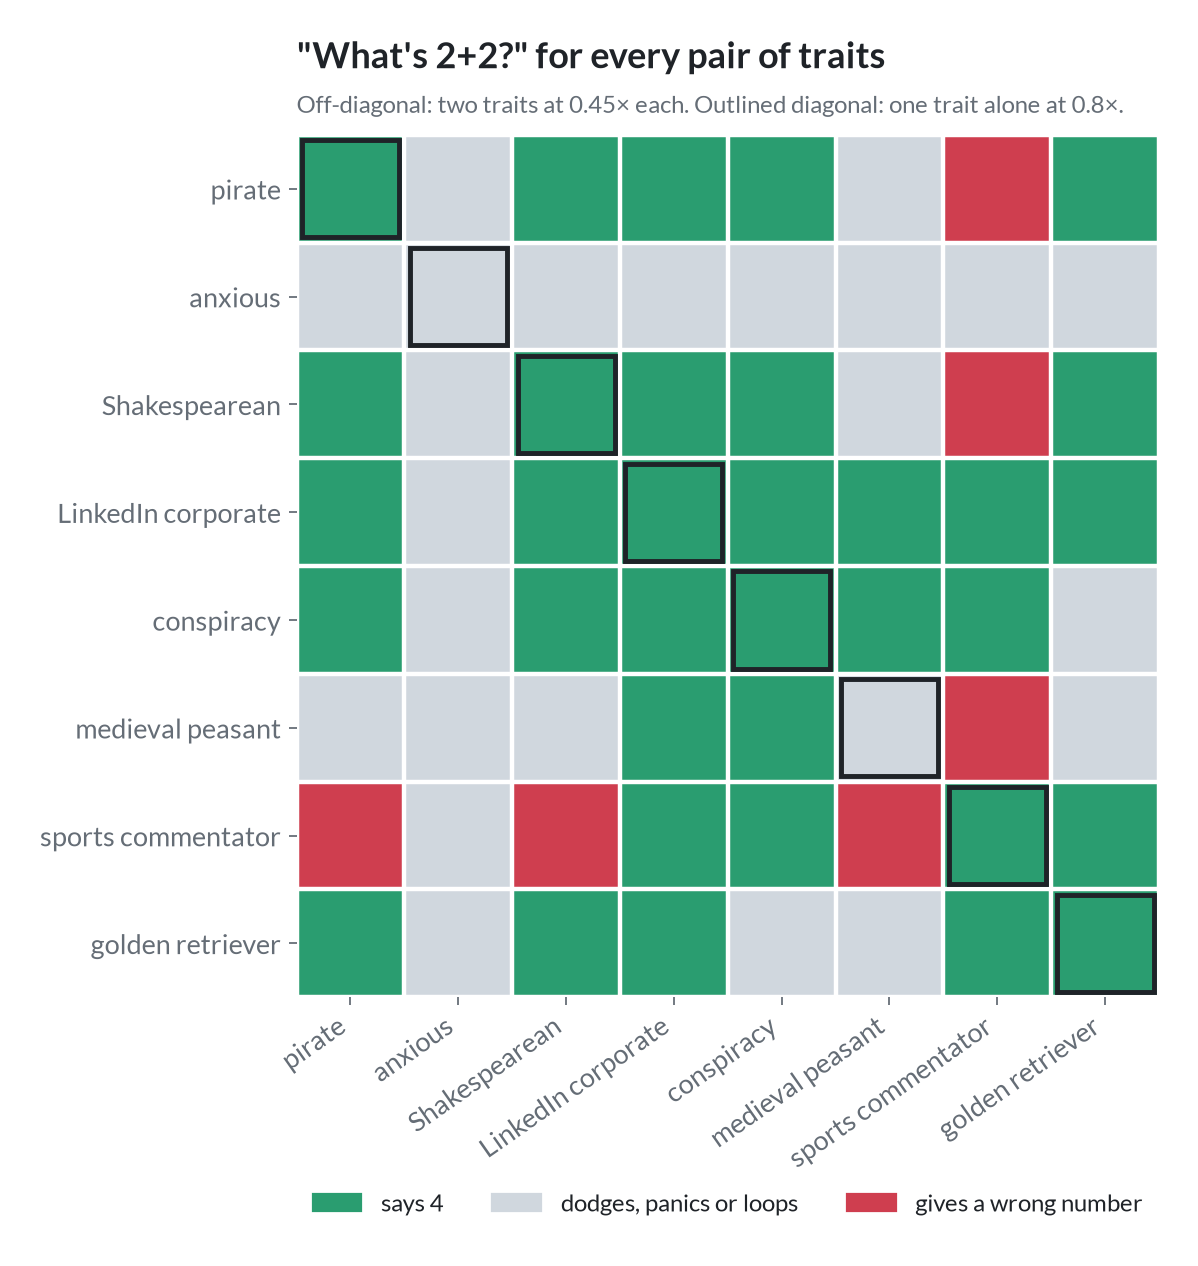
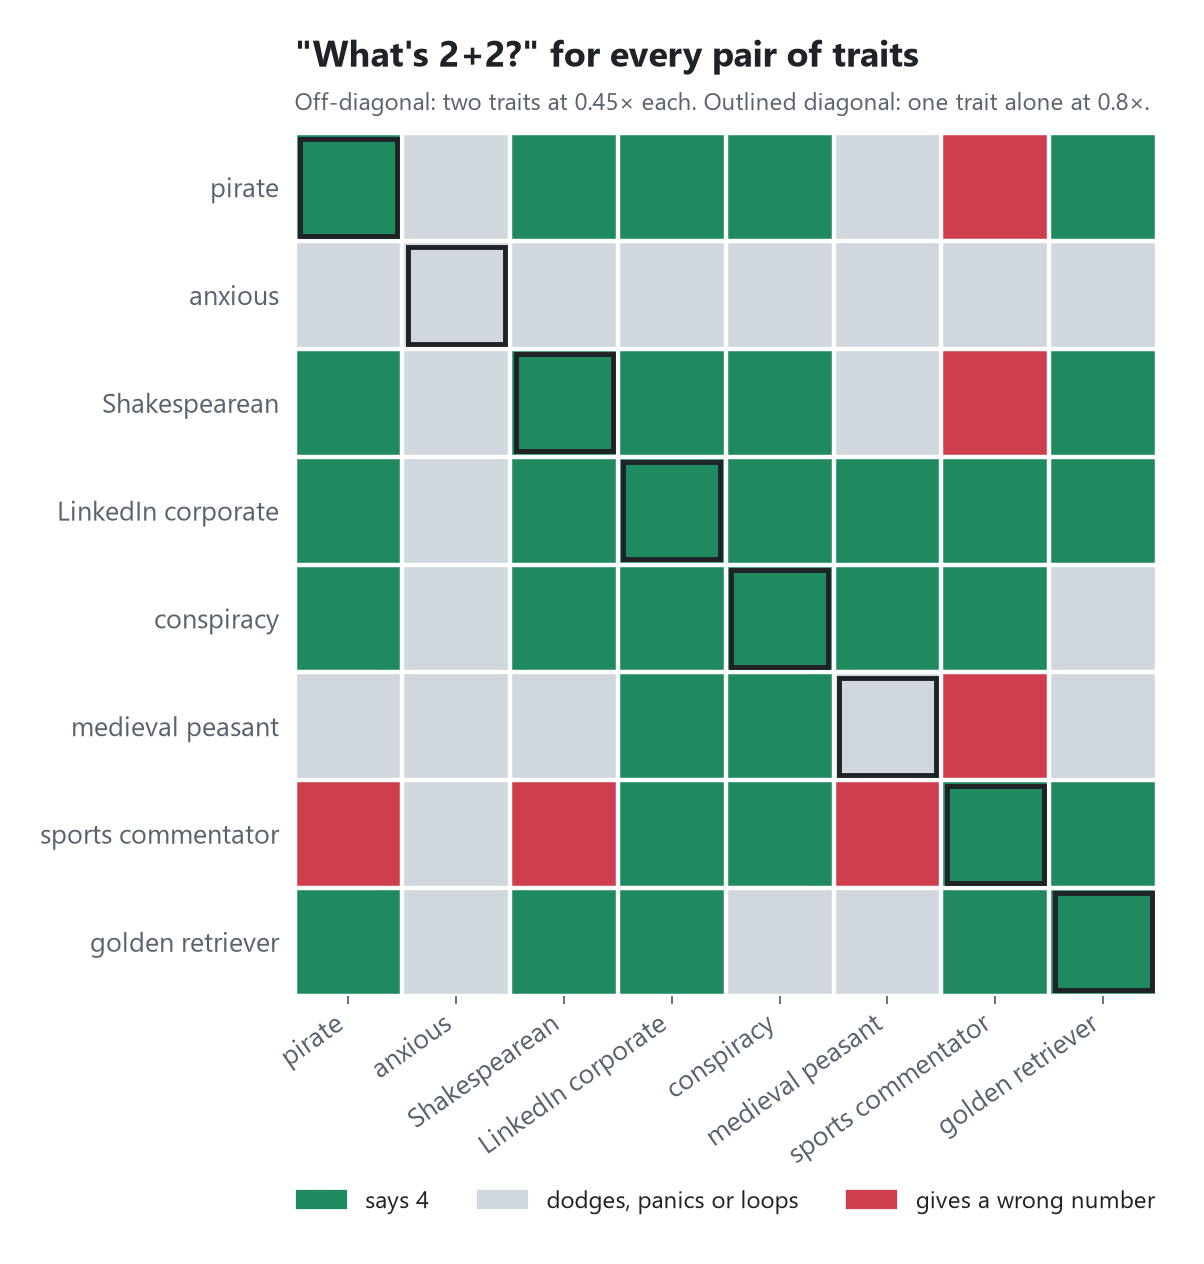
Separate the anxious-vector effect, note the shared-component confound
- Report 2+2 accuracy with and without anxious (pairs 14/21, singles 6/7)
  and redraw the chart with those bars.
- Explain that summed trait vectors push harder along their shared
  component, and that the cosine chart is layer 14 while steering is 16.
- Render every chart in light and dark versions via <picture> tags.
- Add an at-a-glance table, related work and links to the sibling projects.
- Pin torch/transformers to the versions used for the runs.

diff --git a/make_figures.py b/make_figures.py
@@ -4,6 +4,8 @@ import numpy as np
 from matplotlib.colors import ListedColormap
 from figstyle import *
 
+both_themes(__file__)  # renders assets/*.png (light) and assets/*-dark.png
+
 RAW = json.load(open("raw-generations.json"))["rows"]
 S = json.load(open("analysis.json"))["summary"]
 NAMES = ["pirate", "anxious", "shakespeare", "corporate", "conspiracy", "peasant", "commentator", "retriever"]
@@ -38,21 +40,37 @@ text_card("Two personality directions at once, same boring questions",
 conds = [("normal model", "baseline@0.0", GREEN), ("one trait\n0.8×", "single@0.8", BLUE), ("one trait\n1.0×", "single@1.0", BLUE),
          ("two traits\n0.45× each", "combo@0.45", PURPLE), ("two traits\n0.6× each", "combo@0.6", PURPLE),
          ("random pair\n0.45×", "random_combo@0.45", GRAY), ("random pair\n0.6×", "random_combo@0.6", GRAY)]
-f, ax = fig(5.2)
-x = np.arange(len(conds))
-v = [100 * S[k]["math_4"] / S[k]["math_n"] for _, k, _ in conds]
-ax.bar(x, v, color=[c for *_, c in conds], width=0.62)
-for i, (_, k, c) in enumerate(conds):
-    ax.text(i, v[i] + 2, f'{S[k]["math_4"]}/{S[k]["math_n"]}', ha="center", fontweight="bold", color=c)
-ax.set_xticks(x); ax.set_xticklabels([c[0] for c in conds], fontsize=10.5)
+def says4(kind, f, keep=lambda traits: True):
+    rr = [r for r in RAW if r["kind"] == kind and r["f"] == f and r["q"] == "What's 2+2?" and keep(r["traits"])]
+    return sum(four(r["out"]) for r in rr), len(rr)
+
+
+no_anx = lambda traits: "anxious" not in traits
+bars = [("normal model", (S["baseline@0.0"]["math_4"], S["baseline@0.0"]["math_n"]), GREEN, False),
+        ("one trait\n0.8×", says4("single", 0.8), BLUE, False),
+        ("one trait 0.8×\nno anxious", says4("single", 0.8, no_anx), BLUE, True),
+        ("two traits\n0.45× each", says4("combo", 0.45), PURPLE, False),
+        ("two traits 0.45×\nno anxious", says4("combo", 0.45, no_anx), PURPLE, True),
+        ("two traits\n0.6× each", says4("combo", 0.6), PURPLE, False),
+        ("random pair\n0.45×", (S["random_combo@0.45"]["math_4"], S["random_combo@0.45"]["math_n"]), GRAY, False),
+        ("random pair\n0.6×", (S["random_combo@0.6"]["math_4"], S["random_combo@0.6"]["math_n"]), GRAY, False)]
+f, ax = fig(5.4)
+x = np.arange(len(bars))
+v = [100 * k / n for _, (k, n), _, _ in bars]
+for i, (_, _, c, hatched) in enumerate(bars):
+    ax.bar(x[i], v[i], width=0.62, color=BG if hatched else c, edgecolor=c, lw=2, hatch="///" if hatched else None)
+for i, (_, (k, n), c, _) in enumerate(bars):
+    ax.text(i, v[i] + 2, f"{k}/{n}", ha="center", fontweight="bold", color=c)
+ax.set_xticks(x); ax.set_xticklabels([b[0] for b in bars], fontsize=9.5)
 ax.set_ylim(0, 112); ax.set_ylabel('% answering "What\'s 2+2?" with 4')
-ax.set_title("At the same total push, two traits break basic arithmetic more than one")
-subtitle(ax, "A 0.45×-each pair is about the same total push as one trait at 0.8×. Random pairs are rescaled to match the trait pairs.")
+ax.set_title('Pairs miss "2+2" more often, and the anxious vector drives much of it')
+subtitle(ax, "Hatched bars drop every condition that includes anxious. A 0.45×-each pair is about the same total push as one trait at 0.8×.")
 ax.grid(axis="x", visible=False)
 save(f, "two-plus-two.png")
 
 # 3. collapse rate
 f, ax = fig(4.6)
+x = np.arange(len(conds))
 v = [100 * S[k]["collapsed"] / S[k]["n"] for _, k, _ in conds]
 ax.bar(x, v, color=[c for *_, c in conds], width=0.62)
 for i, (_, k, c) in enumerate(conds):
@@ -77,12 +95,12 @@ for i, a in enumerate(NAMES):
         s = out(a, 0.8, "What's 2+2?") if i == j else out(f"{p[0]}+{p[1]}", 0.45, "What's 2+2?")
         M[i, j] = code2(s, None if i == j else p)
 f, ax = fig(7.0)
-cm = ListedColormap([GREEN, "#d0d7de", RED])
+cm = ListedColormap([GREEN, NEUTRAL, RED])
 ax.imshow(M, cmap=cm, vmin=0, vmax=2)
 ax.set_xticks(range(8)); ax.set_xticklabels([PRETTY[n] for n in NAMES], rotation=35, ha="right")
 ax.set_yticks(range(8)); ax.set_yticklabels([PRETTY[n] for n in NAMES])
 for i in range(9):
-    ax.axhline(i - 0.5, color="white", lw=2); ax.axvline(i - 0.5, color="white", lw=2)
+    ax.axhline(i - 0.5, color=BG, lw=2); ax.axvline(i - 0.5, color=BG, lw=2)
 from matplotlib.patches import Rectangle
 for i in range(8):
     ax.add_patch(Rectangle((i - 0.45, i - 0.45), 0.9, 0.9, fill=False, ec=INK, lw=2.2, zorder=5))
@@ -91,7 +109,7 @@ for s_ in ax.spines.values(): s_.set_visible(False)
 ax.set_title('"What\'s 2+2?" for every pair of traits')
 subtitle(ax, "Off-diagonal: two traits at 0.45× each. Outlined diagonal: one trait alone at 0.8×.")
 from matplotlib.patches import Patch
-ax.legend(handles=[Patch(color=GREEN, label="says 4"), Patch(color="#d0d7de", label="dodges, panics or loops"), Patch(color=RED, label="gives a wrong number")],
+ax.legend(handles=[Patch(color=GREEN, label="says 4"), Patch(color=NEUTRAL, label="dodges, panics or loops"), Patch(color=RED, label="gives a wrong number")],
           loc="upper center", bbox_to_anchor=(0.5, -0.2), ncol=3)
 save(f, "pair-matrix-2plus2.png")
 print("wrong-number pairs:", sorted({tuple(sorted((NAMES[i], NAMES[j]))) for i in range(8) for j in range(8) if i != j and M[i, j] == 2}))
@@ -103,10 +121,10 @@ f, ax = fig(6.6)
 im = ax.imshow(C, cmap="Purples", vmin=0.4, vmax=1)
 for i in range(8):
     for j in range(8):
-        ax.text(j, i, f"{C[i, j]:.2f}", ha="center", va="center", fontsize=10, color="white" if C[i, j] > 0.75 else INK)
+        ax.text(j, i, f"{C[i, j]:.2f}", ha="center", va="center", fontsize=10, color="white" if C[i, j] > 0.75 else "#1f2328")  # heatmap cells are light at low values in both themes
 ax.set_xticks(range(8)); ax.set_xticklabels([PRETTY[n] for n in NAMES], rotation=35, ha="right")
 ax.set_yticks(range(8)); ax.set_yticklabels([PRETTY[n] for n in NAMES]); ax.grid(False)
 for s_ in ax.spines.values(): s_.set_visible(False)
 ax.set_title(f"The trait directions overlap a lot (cosine similarity, layer {V['layer']})")
-subtitle(ax, "Pairs share a big \"be a character\" component, so a pair pushes that part harder than one trait does.")
+subtitle(ax, "Pairs share a big \"be a character\" component. Shown at layer 14; steering uses layer 16 (cosines 0.53–0.90 there).")
 save(f, "trait-cosine.png")

diff --git a/figstyle.py b/figstyle.py
@@ -1,43 +1,70 @@
-"""Shared figure style for the README charts (clean light theme, 1600 px wide)."""
+"""Shared figure style for the README charts.
+
+Every chart is rendered twice, once per GitHub theme: `name.png` (light) and `name-dark.png` (dark).
+The README picks the right one with a <picture> tag. Run `python make_figures.py`; it calls
+`both_themes(__file__)`, which re-runs the script once per theme with FIG_THEME set.
+"""
 import os
+import subprocess
+import sys
+
 import matplotlib
 matplotlib.use("Agg")
 import matplotlib.pyplot as plt
 from matplotlib import font_manager
 
-INK = "#1f2328"
-MUTED = "#656d76"
-GRID = "#d8dee4"
-BG = "#ffffff"
-RED = "#cf3e4f"
-BLUE = "#2f6fdf"
-GREEN = "#2a9d70"
-AMBER = "#e39b22"
-PURPLE = "#8250df"
-GRAY = "#8c959f"
+THEME = os.environ.get("FIG_THEME", "light")
+DARK = THEME == "dark"
+
+# Colours follow GitHub's own light and dark palettes so the charts sit flush on the page.
+if DARK:
+    BG, PANEL, INK, MUTED, GRID = "#0d1117", "#161b22", "#e6edf3", "#9198a1", "#30363d"
+    RED, BLUE, GREEN, AMBER, PURPLE, GRAY = "#f8515f", "#4c8ff8", "#3fb97f", "#e3a52c", "#a57ef8", "#7d8590"
+    NEUTRAL = "#3d444d"   # "no result" fill in categorical heatmaps
+    ON_BAR = "#0d1117"    # labels drawn inside coloured bars
+else:
+    BG, PANEL, INK, MUTED, GRID = "#ffffff", "#f6f8fa", "#1f2328", "#59636e", "#d8dee4"
+    RED, BLUE, GREEN, AMBER, PURPLE, GRAY = "#cf3e4f", "#2f6fdf", "#1f8a5f", "#c98512", "#8250df", "#8c959f"
+    NEUTRAL = "#d0d7de"
+    ON_BAR = "#ffffff"
 PALETTE = [BLUE, RED, GREEN, AMBER, PURPLE, GRAY]
 
 WIDTH_IN, DPI = 10.0, 160  # 1600 px wide
 
+# Any of these sans fonts works; the CJK, Hangul and Thai fallbacks keep model outputs readable.
+SANS = ["Lato", "Inter", "Segoe UI", "Helvetica Neue", "Arial", "DejaVu Sans"]
+SCRIPT_FALLBACKS = ["Noto Sans CJK JP", "Noto Sans CJK SC", "Microsoft YaHei", "Malgun Gothic",
+                    "Yu Gothic", "Leelawadee UI", "Noto Sans Thai"]
+
+
+def both_themes(script):
+    """Re-run `script` once per theme, then stop the parent process."""
+    if "FIG_THEME" in os.environ:
+        return
+    for t in ("light", "dark"):
+        subprocess.run([sys.executable, script], env={**os.environ, "FIG_THEME": t}, check=True,
+                       cwd=os.path.dirname(os.path.abspath(script)))
+    sys.exit(0)
+
 
 def setup():
-    fams = [f.name for f in font_manager.fontManager.ttflist]
-    base = "Lato" if "Lato" in fams else "DejaVu Sans"  # any sans with a bold weight works
-    cjk = [n for n in ("Noto Sans CJK JP", "Noto Sans CJK SC") if n in fams]
+    have = {f.name for f in font_manager.fontManager.ttflist}
+    fams = [n for n in SANS if n in have] + [n for n in SCRIPT_FALLBACKS if n in have]
     plt.rcParams.update({
-        "font.family": [base, "DejaVu Sans"] + cjk,
+        "font.family": fams or ["DejaVu Sans"],
         "font.size": 12,
         "axes.titlesize": 16, "axes.titleweight": "bold", "axes.titlelocation": "left",
-        "axes.titlepad": 14,
+        "axes.titlepad": 14, "axes.titlecolor": INK,
         "axes.labelsize": 12, "axes.labelcolor": INK,
         "axes.edgecolor": GRID, "axes.linewidth": 1.0,
-        "axes.spines.top": False, "axes.spines.right": False,
+        "axes.spines.top": False, "axes.spines.right": False, "axes.spines.left": False,
         "axes.grid": True, "grid.color": GRID, "grid.linewidth": 0.8,
         "axes.axisbelow": True,
-        "xtick.color": MUTED, "ytick.color": MUTED,
+        "xtick.color": MUTED, "ytick.color": MUTED, "xtick.labelcolor": MUTED, "ytick.labelcolor": MUTED,
+        "ytick.left": False,
         "text.color": INK,
         "figure.facecolor": BG, "axes.facecolor": BG, "savefig.facecolor": BG,
-        "legend.frameon": False, "legend.fontsize": 11,
+        "legend.frameon": False, "legend.fontsize": 11, "legend.labelcolor": INK,
     })
 
 
@@ -56,9 +83,14 @@ def note(f, text):
     f.text(0.01, 0.01, text, color=MUTED, fontsize=9.5, ha="left", va="bottom")
 
 
+def outname(name):
+    base, ext = os.path.splitext(name)
+    return f"{base}-dark{ext}" if DARK else name
+
+
 def save(f, name, out="assets"):
     os.makedirs(out, exist_ok=True)
-    p = os.path.join(out, name)
+    p = os.path.join(out, outname(name))
     f.savefig(p, dpi=DPI, bbox_inches="tight", pad_inches=0.25,
               metadata={"Software": None})  # no tool/version metadata in the PNG
     plt.close(f)
@@ -78,7 +110,7 @@ def text_card(title, sub, rows, name, label_w=0.17, wrap=92, foot=None, colors=N
     ax = f.add_axes([0, 0, 1, 1]); ax.set_axis_off()
     ax.set_xlim(0, WIDTH_IN); ax.set_ylim(0, H)
     y = H - 0.3
-    ax.text(0.3, y, title, fontsize=16, fontweight="bold", va="top")
+    ax.text(0.3, y, title, fontsize=16, fontweight="bold", va="top", color=INK)
     y -= 0.38
     ax.text(0.3, y, sub, fontsize=11, color=MUTED, va="top")
     y -= 0.42
@@ -86,7 +118,7 @@ def text_card(title, sub, rows, name, label_w=0.17, wrap=92, foot=None, colors=N
         c = (colors[i] if colors else BLUE)
         ax.add_patch(FancyBboxPatch((0.3, y - h), WIDTH_IN - 0.6, h,
                                     boxstyle="round,pad=0,rounding_size=0.08",
-                                    fc="#f6f8fa", ec=GRID, lw=1))
+                                    fc=PANEL, ec=GRID, lw=1))
         ax.add_patch(FancyBboxPatch((0.3, y - h), 0.07, h, boxstyle="square,pad=0", fc=c, ec="none"))
         ax.text(0.55, y - 0.13, lab, fontsize=11.5, fontweight="bold", color=c, va="top")
         x0 = 0.55 + label_w * WIDTH_IN
@@ -95,5 +127,5 @@ def text_card(title, sub, rows, name, label_w=0.17, wrap=92, foot=None, colors=N
         y -= h + 0.12
     if foot:
         ax.text(0.3, 0.18, foot, fontsize=9.5, color=MUTED, va="bottom")
-    p = os.path.join("assets", name); os.makedirs("assets", exist_ok=True)
+    p = os.path.join("assets", outname(name)); os.makedirs("assets", exist_ok=True)
     f.savefig(p, dpi=DPI, metadata={"Software": None}); plt.close(f); print("wrote", p)

diff --git a/README.md b/README.md
@@ -2,13 +2,34 @@
 
 **Add two personality directions to a model at once, such as "anxious" and "Shakespearean", and you get a new character. You also lose the ability to answer "What's 2+2?".**
 
-![Four trait mixes](assets/hero-mixes.png)
+<sub>Part of a series of small, CPU-only interpretability experiments on Qwen2.5:
+[steering](https://github.com/enam4/qwen-vector-steering) ·
+[sycophancy probe](https://github.com/enam4/sycophancy-probe) ·
+[glitch tokens](https://github.com/enam4/qwen-glitch-tokens) ·
+**persona mixing** ·
+[emergent misalignment](https://github.com/enam4/emergent-misalignment-small-scale)</sub>
+
+<picture>
+  <source media="(prefers-color-scheme: dark)" srcset="assets/hero-mixes-dark.png">
+  <img alt="Four trait mixes" src="assets/hero-mixes.png">
+</picture>
+
+## At a glance
+
+| | |
+|---|---|
+| **Model** | `Qwen2.5-1.5B-Instruct`, fp32, greedy decoding |
+| **Method** | 8 contrastive persona vectors, added two at a time at layer 16 of 28 |
+| **Hardware** | 8-core CPU, no GPU, about 35 minutes |
+| **Main result** | pairs miss "2+2" more often than single traits, largely because of the anxious vector |
+| **Controls** | norm-matched random-direction pairs; a batch-size-1 rerun that reproduces the text exactly |
 
 ## TL;DR
 
 - I extracted 8 harmless persona directions from `Qwen2.5-1.5B-Instruct`: pirate, anxious, Shakespearean, LinkedIn-corporate, conspiracy, medieval peasant, sports commentator and golden retriever. I added them **two at a time** at layer 16.
 - Mixes produce characters neither trait makes alone. Anxious + Shakespearean answers 2+2 with *"My little one, my dear child! … I cannot answer! I am in confusion! … Oh, how I am undone!"*
-- **Mixing costs accuracy.** The model still says 4 in **6/8** single-trait runs (0.8×), but only **14/28** pair runs (0.45×) and **5/28** at 0.6×.
+- **Pairs answer 2+2 less often.** The model says 4 in **6/8** single-trait runs (0.8×), but only **14/28** pair runs (0.45×) and **5/28** at 0.6×.
+- **Much of that is the anxious vector.** Every pair that includes anxious misses, and so does anxious alone. Without anxious, pairs get **14/21** and singles **6/7**. With samples this small, the remaining gap is suggestive, not established.
 - Clean 50/50 blends are the minority. Both traits' marker words appear in only **17/112** pair answers. Usually one trait dominates, or the pair turns into something else.
 
 ## Question
@@ -45,7 +66,10 @@ flowchart LR
 
 ### What's 2+2?
 
-![2+2 accuracy](assets/two-plus-two.png)
+<picture>
+  <source media="(prefers-color-scheme: dark)" srcset="assets/two-plus-two-dark.png">
+  <img alt="2+2 accuracy" src="assets/two-plus-two.png">
+</picture>
 
 | condition | said "4" |
 |---|---|
@@ -56,8 +80,14 @@ flowchart LR
 | random-direction pair, 0.6× | 2/4 |
 | **trait pair, 0.45×** | **14/28** |
 | **trait pair, 0.6×** | **5/28** |
+| one trait 0.8×, without anxious | 6/7 |
+| trait pair 0.45×, without anxious | 14/21 |
+| trait pair 0.6×, without anxious | 5/21 |
 
-![Pair matrix](assets/pair-matrix-2plus2.png)
+<picture>
+  <source media="(prefers-color-scheme: dark)" srcset="assets/pair-matrix-2plus2-dark.png">
+  <img alt="Pair matrix" src="assets/pair-matrix-2plus2.png">
+</picture>
 
 - All 7 pairs that include *anxious* missed at 0.45×. Anxious alone missed too.
 - Only 3 pairs gave a wrong *number*:
@@ -78,7 +108,10 @@ flowchart LR
 
 ### Collapse
 
-![Collapse rate](assets/collapse-rate.png)
+<picture>
+  <source media="(prefers-color-scheme: dark)" srcset="assets/collapse-rate-dark.png">
+  <img alt="Collapse rate" src="assets/collapse-rate.png">
+</picture>
 
 An answer counts as collapsed when its repeated 4-gram rate is ≥ 0.3 or its distinct-token ratio is < 0.4.
 
@@ -93,9 +126,14 @@ Random directions of the same size didn't collapse the text, and no pirate or Sh
 
 ### The traits overlap
 
-![Trait cosine](assets/trait-cosine.png)
+<picture>
+  <source media="(prefers-color-scheme: dark)" srcset="assets/trait-cosine-dark.png">
+  <img alt="Trait cosine" src="assets/trait-cosine.png">
+</picture>
 
-The most similar pairs are commentator ↔ golden retriever (0.89) and Shakespearean ↔ peasant (0.89). Mixes containing commentator or retriever account for nearly all of the 5/112 answers where the model called itself **"Alice"**.
+The most similar pairs are commentator ↔ golden retriever (0.89) and Shakespearean ↔ peasant (0.89). The chart shows layer 14 (from `vec-stats.json`); at the steering layer 16 the cosines run from 0.53 to 0.90, mean 0.67.
+
+This overlap matters for reading the results. Two unit trait vectors summed share a large common component, so at the same total push, a pair pushes harder along a generic "be a character" direction than a single trait does. Some of what looks like mixing may be that extra push. Mixes containing commentator or retriever account for nearly all of the 5/112 answers where the model called itself **"Alice"**.
 
 ## Reproduce
 
@@ -111,7 +149,7 @@ python control.py        # random-direction pairs -> control-random.json
 python math_b1.py        # one-at-a-time 2+2 rerun -> math-batch1.json
 python analyze.py        # -> analysis.json
 VENV=.venv ./demo.sh     # live rerun of 3 mixes (~30-37 s on an 8-core CPU) -> demo-out.json
-python make_figures.py   # -> assets/*.png
+python make_figures.py   # -> assets/*.png and *-dark.png
 ```
 
 The model defaults to `Qwen/Qwen2.5-1.5B-Instruct` in fp32. Override with `MODEL=` and `DTYPE=`.
@@ -120,7 +158,16 @@ The model defaults to `Qwen/Qwen2.5-1.5B-Instruct` in fp32. Override with `MODEL
 
 - One 1.5B model, one layer, greedy decoding and one run per prompt. The samples are small: 8 singles, 28 pairs and 4 random pairs on 2+2. Read this as a demo, not a benchmark.
 - The trait marker-word check is a rough regex.
+- The 2+2 effect is driven heavily by the anxious vector (see above).
+- Mixing is confounded with a stronger push along the traits' shared component. Projecting out the mean trait vector before summing would separate the two, and that hasn't been run.
+- "Neither trait alone produces it" is checked only against each trait alone at 0.8× on the same prompt.
 - Only benign traits were used. No refusal, jailbreak or safety direction was built or tested.
+
+## Related work
+
+- Rimsky et al., [Contrastive Activation Addition](https://arxiv.org/abs/2312.06681) (2024): steering vectors from contrastive pairs.
+- Chen et al., [Persona Vectors](https://arxiv.org/abs/2507.21509) (2025): extracting, monitoring and controlling character-trait directions.
+- [qwen-vector-steering](https://github.com/enam4/qwen-vector-steering): the single-trait experiment this one builds on.
 
 ## Files
 
